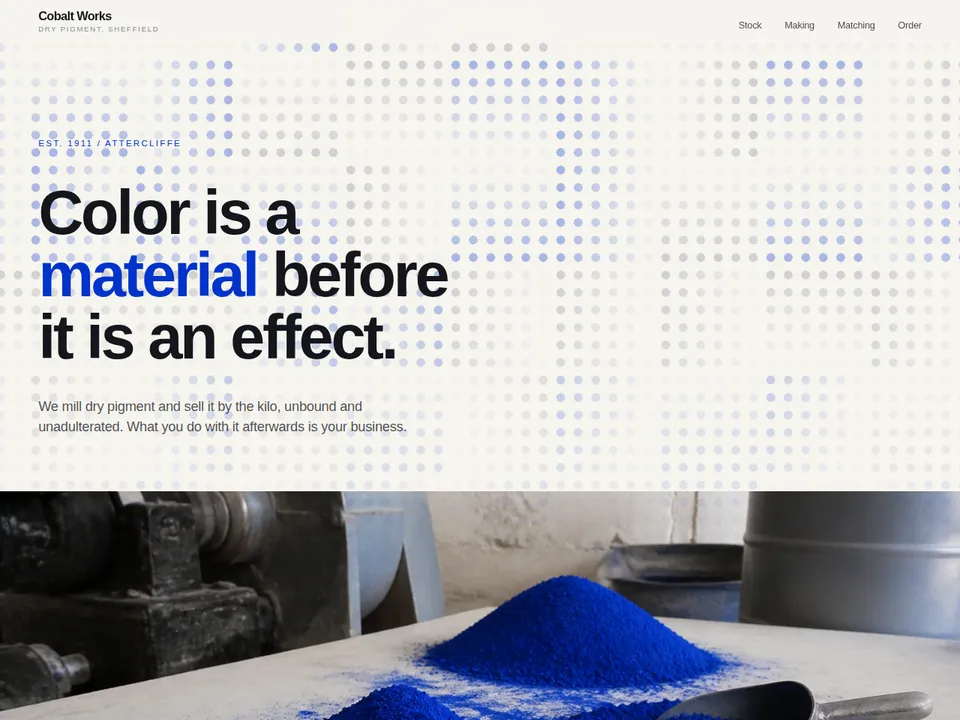
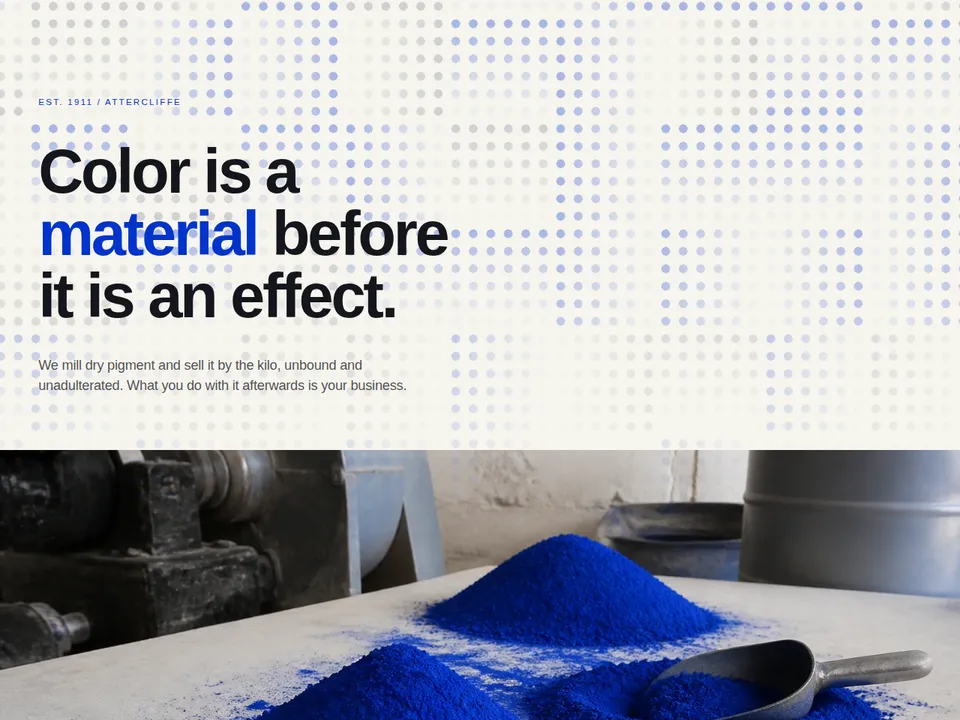
Show every template as its site, below the top bar, on both card rails
The gallery showed a screenshot for six templates and the homepage's
template rails showed only patterns. Every template now has a shot, and
both read them through lib/templateShots.ts, which lists
public/template-shots at build time; a template not yet shot falls back
to its pattern on both.

A shot now starts below the site's top bar, since a small thumbnail can
least afford the brand and nav. generate-template-shots walks down from
the top through stacked full-width bars (a strip, the header, a rule
under it, a masthead up to 420px holding nav links, a pill inset up to
24px) until it meets the h1, scrolls past them with the bars hidden so a
sticky one does not follow, and writes the next 1280x960 at 960x720. With
no slugs it shoots every template. All 77 crops were checked by eye; the
set is 3.3 MB.

Claude-Session: https://claude.ai/code/session_019WYBQXgEb7sTeCV7hmvW2b

diff --git a/app/templates/page.tsx b/app/templates/page.tsx
@@ -1,5 +1,3 @@
-import { existsSync, readdirSync } from 'node:fs';
-import path from 'node:path';
 import type { Metadata } from 'next';
 import type { PatternDefinition } from 'tabbied';
 import {
@@ -12,12 +10,11 @@ import TemplatesGrid, { type TemplateCard } from 'components/template/TemplatesG
 import { TEMPLATE_SITES } from 'components/template/templateData';
 import { NEW_TEMPLATE_SITES } from 'lib/templateSites';
 import { categoryOf } from 'lib/templateCategories';
+import { templateShot } from 'lib/templateShots';
 import { plexMono, plexSans } from 'lib/fonts';
 import { pageMetadata } from 'lib/seo';
 import home from 'components/main-page/home.module.css';
 import s from './templates.module.css';
-
-const SHOTS_DIR = path.join(process.cwd(), 'public', 'template-shots');
 
 // Derived, never written out: adding a site can't leave a stale number behind.
 const TOTAL = TEMPLATE_SITES.length + NEW_TEMPLATE_SITES.length;
@@ -34,17 +31,6 @@ const ART: Record<string, PatternDefinition> = {
   // The second collection's patterns, keyed by preset slug.
   ...Object.fromEntries(NEW_TEMPLATE_SITES.map((x) => [x.patternSlug, x.pattern])),
 };
-
-// The templates with a screenshot of their first screen, read off the files
-// in public/template-shots at build time, so a shot added there is on its
-// card with nothing else to change (scripts/generate-template-shots.mjs).
-const SHOTS = new Set(
-  existsSync(SHOTS_DIR)
-    ? readdirSync(SHOTS_DIR)
-        .filter((file) => file.endsWith('.webp'))
-        .map((file) => file.slice(0, -'.webp'.length))
-    : []
-);
 
 export default function TemplatesGallery() {
   // One list, numbered straight through: the gallery shows a single grid
@@ -73,7 +59,7 @@ export default function TemplatesGallery() {
   ].map((c, i) => ({
     ...c,
     n: i + 1,
-    shot: SHOTS.has(c.slug) ? `/template-shots/${c.slug}.webp` : undefined,
+    shot: templateShot(c.slug),
     art: ART[c.pattern],
     // Throws for a site the category table has not met, which fails the
     // export rather than shipping a card no filter reaches.

diff --git a/components/main-page/HomeTemplates.tsx b/components/main-page/HomeTemplates.tsx
@@ -1,6 +1,7 @@
 import Link from 'next/link';
 import { ArrowRight } from 'lucide-react';
 import { NEW_TEMPLATE_SITES } from 'lib/templateSites';
+import { templateShot } from 'lib/templateShots';
 import styles from './HomeTemplates.module.css';
 
 // Two rails of template sites drifting in opposite directions. No state and no
@@ -36,14 +37,15 @@ function Card({ site, clone = false }: { site: Site; clone?: boolean }) {
         <span />
       </span>
       <span className={styles.thumb}>
-        {/* A plain img: the export runs with images unoptimized, so
-            next/image would only add its client runtime. Eager, not lazy:
-            the track is moved into view by an animation, which lazy loading
-            does not see as the image approaching, so the second copy of each
-            row would scroll in blank. */}
+        {/* The site below its top bar, or its pattern until it is shot. A
+            plain img: the export runs with images unoptimized, so next/image
+            would only add its client runtime. Eager, not lazy: the track is
+            moved into view by an animation, which lazy loading does not see
+            as the image approaching, so the second copy of each row would
+            scroll in blank. */}
         {/* eslint-disable-next-line @next/next/no-img-element */}
         <img
-          src={`/previews/${site.patternSlug}.webp`}
+          src={templateShot(site.slug) ?? `/previews/${site.patternSlug}.webp`}
           alt=""
           loading="eager"
           fetchPriority="low"

diff --git a/lib/templateShots.ts b/lib/templateShots.ts
@@ -1,0 +1,21 @@
+// Screenshots of the template sites (scripts/generate-template-shots.mjs),
+// read off public/template-shots at build time, so a shot added there reaches
+// the gallery's cards and the homepage's rails with nothing else to change.
+//
+// Server-only: it reads the file system during the export.
+import { existsSync, readdirSync } from 'node:fs';
+import path from 'node:path';
+
+const SHOTS_DIR = path.join(process.cwd(), 'public', 'template-shots');
+
+const SHOTS = new Set(
+  existsSync(SHOTS_DIR)
+    ? readdirSync(SHOTS_DIR)
+        .filter((file) => file.endsWith('.webp'))
+        .map((file) => file.slice(0, -'.webp'.length))
+    : []
+);
+
+/** A template's screenshot URL, or undefined for a template not shot yet. */
+export const templateShot = (slug: string): string | undefined =>
+  SHOTS.has(slug) ? `/template-shots/${slug}.webp` : undefined;

diff --git a/CLAUDE.md b/CLAUDE.md
@@ -448,18 +448,26 @@ agree) behind a "Menu" toggle. Four things it depends on:
   header hides must be in a visible menu that fits on the screen. A new
   template that hides its nav fails it until it carries the menu.
 
-## Template screenshots on the gallery cards - a pilot
+## Template screenshots on the cards
 
-A `/templates` card drew only its pattern, so a person choosing a website
-could not see one. `scripts/generate-template-shots.mjs <slug> ...` renders a
-site's first screen from `out/` (1280x960, the card's own 4:3, so nothing is
-cropped) into `public/template-shots/<slug>.webp`, and a card with a file
-there shows the site with its live pattern as a tile in the corner. The set
-is whatever files exist, read at build time, so a card with no shot is the
-pattern alone as before. Six are shot (solstice, werkraum, hopscotch-museum,
-cobalt-works, zenith-observatory, mistral-cycles). Committed like the
-previews, because the deploy build has no browser; reshoot after a hero
-changes.
+Every template has a screenshot in `public/template-shots/<slug>.webp`: the
+`/templates` card shows it with the site's live pattern as a tile in the
+corner, and the homepage's template rails show it alone. `lib/templateShots.ts`
+reads the folder at build time, so a template with no shot falls back to its
+pattern on both.
+
+`npm run build`, then `node scripts/generate-template-shots.mjs [slug ...]`
+(no slugs shoots all). A shot starts **below the site's top bar**: a
+thumbnail is small, and the brand and nav are the clutter it can least
+afford. `contentTop` walks down from y=0 through stacked full-width bars (a
+strip, the header, a rule under it; a masthead up to 420px if it holds nav
+links; a first bar inset up to 24px, like Orbital's pill) and stops at
+anything holding the `h1`. The page is scrolled past the bars, which are
+hidden so a sticky one does not follow, and the first 1280x960 of content is
+written at 960x720. A page that opens on its hero (Oxbow) is shot from 0.
+Committed like the previews, because the deploy build has no browser; reshoot
+a template after its hero or header changes, and check a new one's crop by
+eye.
 
 ## The mark, and the font that travels with it
 
